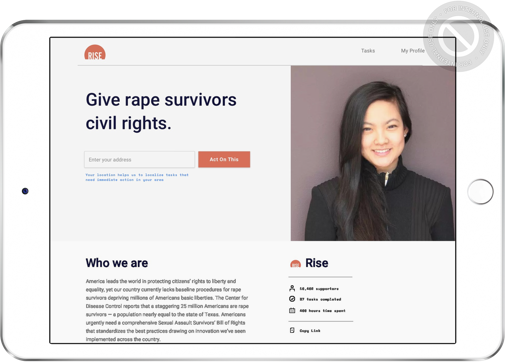
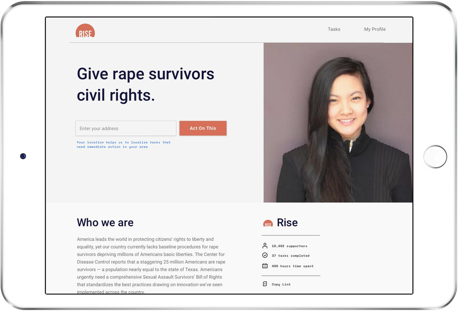
new splash image

diff --git a/src/components/ui/info-box.scss b/src/components/ui/info-box.scss
@@ -6,7 +6,7 @@
   flex-wrap: wrap;
   align-items: stretch;
   overflow: hidden;
-  border: solid 1px $gray;
+  border: solid 1px get-color($gray, 300);
   margin-bottom: $standard-spacing;
 
   .info-box__description{

diff --git a/src/components/pages/splash-page.scss b/src/components/pages/splash-page.scss
@@ -72,6 +72,7 @@
   }
 
   .product-feature-description {
+    padding-top: 2rem;
   }
 
   .product-feature-image-container {
